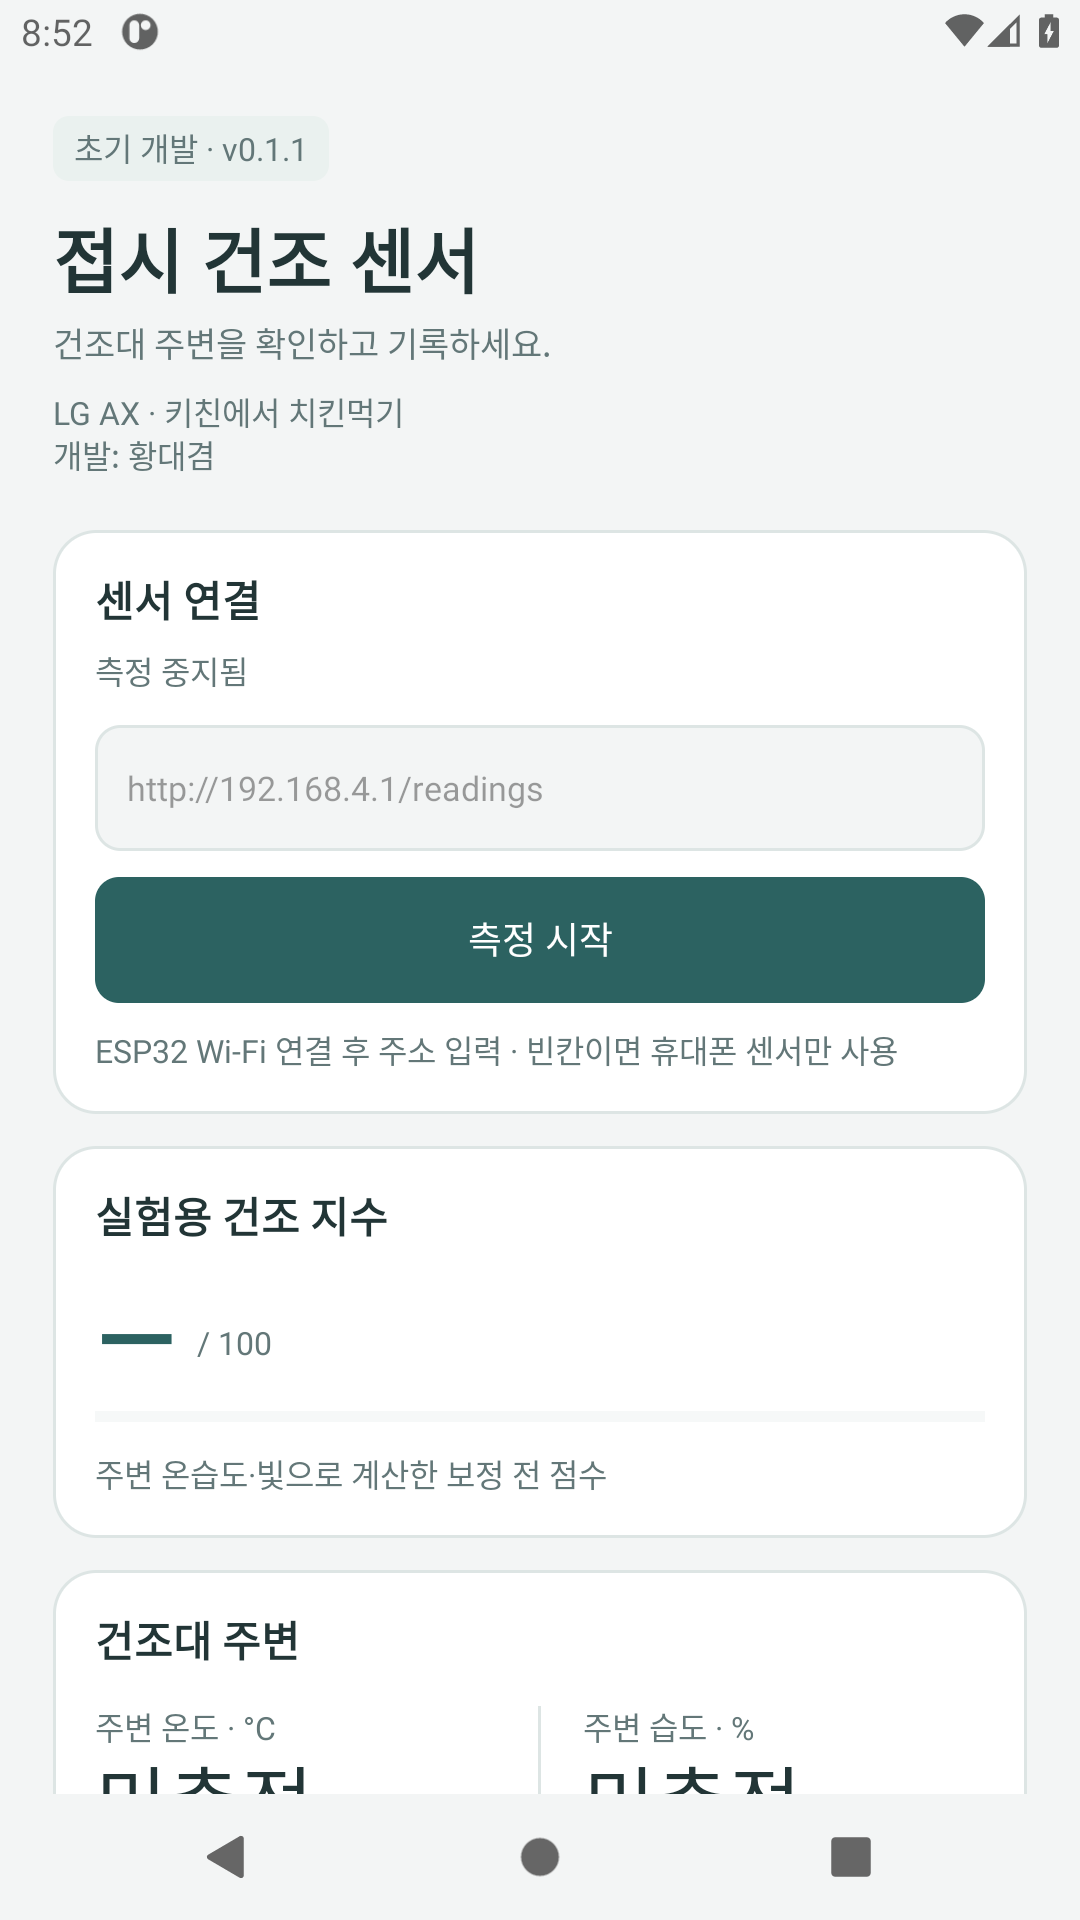
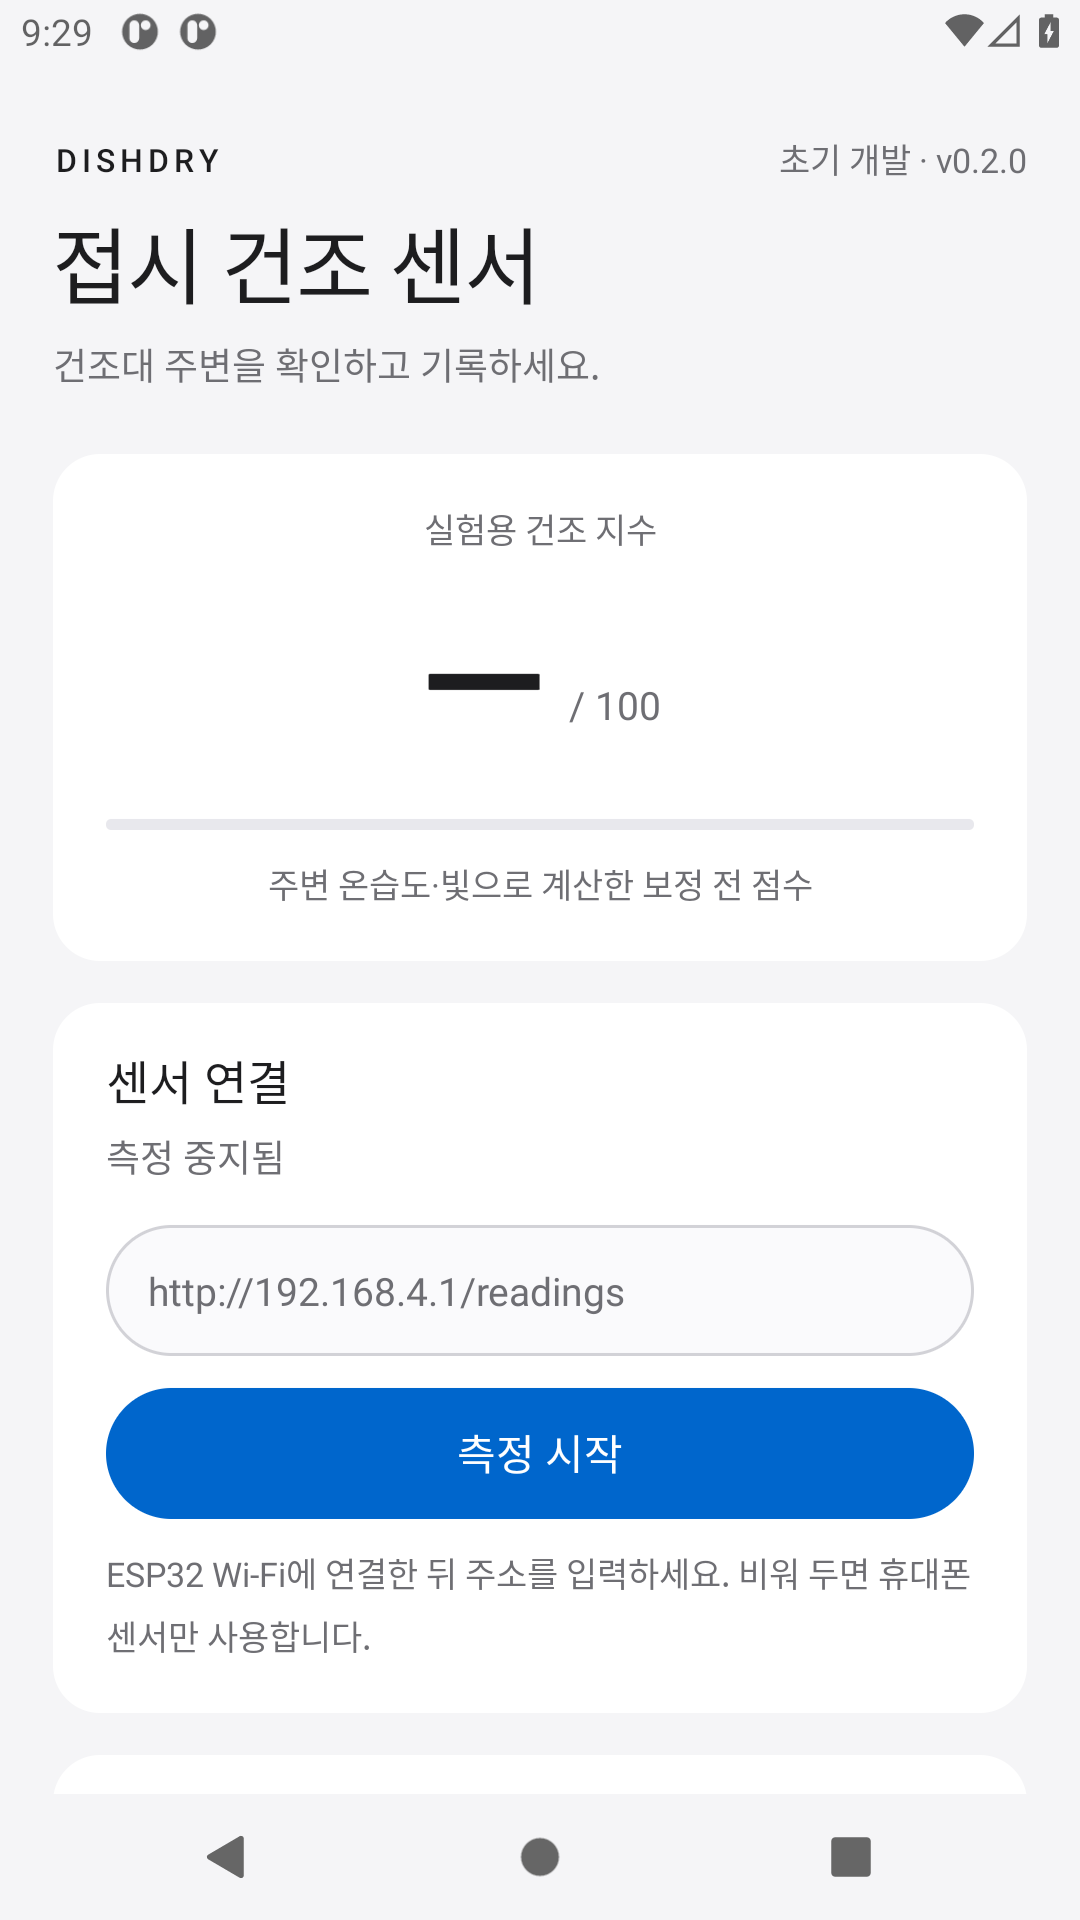
docs: refresh README visuals and execution records for v0.2.0

diff --git a/README.md b/README.md
@@ -6,19 +6,21 @@
 
 주방 UX/UI 시나리오를 소재로 만드는 작은 안드로이드 앱입니다. 접시 건조대 옆에 온습도·빛 센서를 붙이고, 주변 수치만으로 건조 정도를 대략 계산해 보려는 초기 구현입니다.
 
-![접시 건조대의 온습도·빛 센서, ESP32 보드와 Android 앱 구성 스케치](docs/images/dishdry-sensor-sketch.png)
+![접시 건조대의 온습도·빛 센서, ESP32 보드와 새 Android 화면 구성 개념도](docs/images/dishdry-sensor-sketch.png)
 
-*접시 건조대 옆 센서와 앱을 연결하는 구성 스케치.*
+*접시 건조대 옆 센서와 v0.2.0 앱을 연결하는 구성 개념도. 실물 장치 실행 사진이 아닙니다.*
 
 ## 앱 실제 실행 화면
 
-v0.1.1 APK를 Android API 30 에뮬레이터에서 실행한 원본 캡처입니다. 연결·센서·지수·기록을 카드로 배치했습니다. ESP32는 연결하지 않았고, 기록 1개는 에뮬레이터의 가상 휴대폰 센서 값으로 저장한 것입니다.
+v0.2.0 APK를 Android API 30 에뮬레이터에서 실행한 원본 캡처입니다. 흰색 카드, 연회색 바탕, 파란색 캡슐 버튼과 큰 지수를 적용했습니다. ESP32는 연결하지 않았고, 기록 1개는 에뮬레이터의 가상 휴대폰 센서 값으로 저장한 것입니다.
 
 | 연결 대기 | 현재 값 기록 | 시스템 CSV 저장 |
 | --- | --- | --- |
 | <img src="docs/images/screenshots/01-overview.png" width="230" alt="실제 앱 연결 대기 화면"> | <img src="docs/images/screenshots/03-record-saved.png" width="230" alt="실제 앱에서 가상 휴대폰 센서 값 한 건을 기록한 화면"> | <img src="docs/images/screenshots/04-system-export.png" width="230" alt="Android 시스템 파일 선택기의 CSV 저장 화면"> |
 
-앱 실행, 측정 시작, 현재 값 기록, CSV 저장 화면과 앱 복귀, 재시작 후 기록 유지를 확인했습니다. [전체 실행 캡처](docs/images/screenshots), [실행 결과 원문](docs/logs/2026-10-10-android-emulator.txt), [실행 일지](docs/RUN_LOG.md).
+앱 실행, 현재 값 기록, CSV 실제 파일 내용 일치, 저장·취소 후 앱 복귀, 재시작 후 기록 유지, 320dp 너비·130% 글자 크기를 확인했습니다. [전체 실행 캡처 8장](docs/images/screenshots), [실행 결과 원문](docs/logs/2026-10-10-v0.2.0-android-emulator.txt), [실행 일지](docs/RUN_LOG.md).
+
+화면의 색상과 여백은 내려받은 [Apple 웹디자인 분석 DESIGN.md](DESIGN.md)를 참고했습니다. 공식 Apple 디자인 문서는 아니며, Android 기본 글꼴과 위젯에 맞게 적용했습니다. [적용 기준과 출처](docs/DESIGN_NOTES.md).
 
 ## 주제의 흐름
 
@@ -47,24 +49,38 @@ flowchart TD
     end
 
     subgraph phone["Android 앱 · Java / 기본 위젯"]
-        MAIN["MainActivity · 측정 시작/중지"]
+        MAIN["MainActivity · 버튼과 화면 생명주기"]
+        CONTROL["MeasurementController · 5초 폴링·센서 등록"]
+        HTTP["SensorHttpClient · 주소·시간·응답 크기 검사"]
         PARSE["SensorReading · 범위와 측정 시간 검사"]
-        SCREEN["측정값 표시"]
+        STATE["MeasurementState · 오래된 값 제외"]
+        SNAP["ReadingSnapshot · 기록 시점의 값"]
+        SCREEN["DashboardView · 바뀐 표시만 갱신"]
         INDEX["임시 건조 지수 · 0~100"]
         PHONE["휴대폰 조도·가속도 센서"]
-        FILE["현재 값 기록 · 앱 내부 readings.csv"]
+        FILE["RecordStore · 백그라운드 CSV 읽기·쓰기"]
         EXPORT["시스템 파일 선택기로 CSV 내보내기"]
-        MAIN --> PARSE
-        PARSE --> SCREEN
+        MAIN --> CONTROL
+        CONTROL --> HTTP
+        HTTP --> PARSE
+        PARSE --> STATE
+        STATE --> SNAP
+        SNAP --> SCREEN
         PARSE --> INDEX
         INDEX --> SCREEN
-        PHONE -->|"실제 센서 이벤트"| MAIN
-        MAIN -->|"휴대폰 조도·움직임"| SCREEN
-        SCREEN -->|"기록 버튼을 누른 시점의 값"| FILE
+        PHONE -->|"실제 센서 이벤트"| CONTROL
+        CONTROL --> STATE
+        SNAP -->|"버튼을 누른 시점의 유효한 값"| FILE
         FILE --> EXPORT
     end
 
-    API -->|"같은 Wi-Fi · HTTP JSON · 5초마다 읽기"| MAIN
+    API -->|"같은 Wi-Fi · HTTP JSON"| HTTP
+    classDef device fill:#ffffff,stroke:#d2d2d7,color:#1d1d1f
+    classDef app fill:#ffffff,stroke:#0066cc,color:#1d1d1f
+    class DHT,LDR,ESP,API device
+    class MAIN,CONTROL,HTTP,PARSE,STATE,SNAP,SCREEN,INDEX,PHONE,FILE,EXPORT app
+    style rack fill:#f5f5f7,stroke:#d2d2d7,color:#1d1d1f
+    style phone fill:#f5f5f7,stroke:#d2d2d7,color:#1d1d1f
 ```
 
 외부 센서의 온습도와 빛 ADC만 임시 건조 지수에 사용합니다. 휴대폰 센서는 별도로 수치와 기록에 표시합니다. 연결 실패나 오래된 외부 측정값은 미측정으로 처리하며, 모든 기록은 앱 내부에 저장합니다.
@@ -75,7 +91,7 @@ flowchart TD
 
 ![센서 Wi-Fi 연결, 측정값 확인, 현재 값 기록, CSV 저장으로 이어지는 4컷 사용 시나리오](docs/images/user-scenario.png)
 
-*사용 과정을 설명하는 4컷 스케치. 건조 지수는 접시의 실제 건조 완료를 판정하지 않습니다.*
+*새 화면 디자인으로 맞춘 4컷 개념 시나리오. 대시와 대괄호는 자리 표시이며, 실물 센서 실행 기록이 아닙니다.*
 
 ## 화면 와이어프레임과 사용 흐름
 
@@ -96,17 +112,18 @@ flowchart TD
 - 버튼을 누른 시점의 측정값을 앱 내부에 기록하고 CSV로 내보내기
 - 연결 실패, 센서 미지원, 센서 읽기 실패 표시
 
-화면은 기본 Android 위젯으로 만든 한 페이지입니다. 연결·지수·외부 센서·휴대폰 센서·기록을 카드로 배치하고 기록 개수와 최근 기록 시각을 표시합니다. ESP32 수치는 5초마다 읽고, 실제로 수신한 값만 표시합니다. 센서를 연결하지 않으면 해당 항목은 미측정으로 남습니다. 외부 센서 없이 휴대폰 센서만 켤 수도 있습니다.
+화면은 기본 Android 위젯으로 만든 한 페이지입니다. 지수·연결·외부 센서·휴대폰 센서·기록을 카드로 배치하고 기록 개수와 최근 기록 시각을 표시합니다. 화면 표시, 측정 상태, HTTP 요청, CSV 저장을 분리했습니다. CSV 읽기·쓰기·내보내기는 백그라운드에서 실행합니다. ESP32 수치는 5초마다 읽고, 실제로 수신한 값만 표시합니다. 센서를 연결하지 않으면 해당 항목은 미측정으로 남습니다. 외부 센서 없이 휴대폰 센서만 켤 수도 있습니다.
 
 ## 개발 단계
 
-v0.1.1. 앱과 ESP32 펌웨어를 구현한 상태입니다. 실제 건조대에서의 보정, 접시 물기와의 상관관계, 여러 휴대폰에서의 동작은 아직 확인하지 않았습니다. 주변 습도와 밝기가 접시의 건조 완료를 나타낸다는 가정도 검증 전입니다.
+v0.2.0. 앱과 ESP32 펌웨어를 구현한 상태입니다. 실제 건조대에서의 보정, 접시 물기와의 상관관계, 여러 휴대폰에서의 동작은 아직 확인하지 않았습니다. 주변 습도와 밝기가 접시의 건조 완료를 나타낸다는 가정도 검증 전입니다.
 
 건조 지수는 임의 가중치의 환경 점수입니다. 접시 표면 수분이나 건조 완료를 직접 측정하는 값은 아닙니다. 환기, 식기 재질, 물방울 크기 등을 반영하지 못합니다.
 
 ## 간단한 작업 문서
 
 - [간단 명세](docs/SPEC.md) — 화면·버튼, 센서 연결, HTTP 응답, CSV 열 정리
+- [화면 기준과 코드 구조](docs/DESIGN_NOTES.md) — DESIGN.md 출처, Android 적용, 파일별 책임
 - [개발·실행 기록](docs/RUN_LOG.md) — 빌드 출력과 실물 장치 확인 항목
 - [개발 메모와 남은 작업](docs/TODO.md) — 구현한 코드와 기기에서 확인할 항목
 

diff --git a/docs/RUN_LOG.md b/docs/RUN_LOG.md
@@ -39,9 +39,37 @@ LG AX · 키친에서 치킨먹기 / 황대겸
 | 측정 중지 상태에서 기록 버튼 | 비활성화 확인 |
 | Android Runtime 치명적 예외 | 없음 |
 
-[원본 실행 화면](images/screenshots), [원문 결과와 내부 CSV](logs/2026-10-10-android-emulator.txt).
+[v0.1.1 원본 실행 화면](https://github.com/unknownamed/lgax-kitchen-sensor-android/tree/c8658311ec562a878ed4f9056f6cadeb715f4f9c/docs/images/screenshots), [원문 결과와 내부 CSV](logs/2026-10-10-android-emulator.txt).
 
 이 실행의 휴대폰 센서는 에뮬레이터의 가상 센서다. 외부 온습도·빛 센서는 연결하지 않아 CSV의 해당 열은 비어 있다. CSV의 `recorded_at_utc`는 UTC이고, 앱의 최근 기록 표시는 실행 기기의 시간대를 따른다.
+
+## 2026-10-10 · v0.2.0 디자인과 코드 정리
+
+- Apple 웹디자인 분석 DESIGN.md를 받고 MIT 라이선스와 출처를 보관했다.
+- 흰색·연회색 표면, 큰 지수, 파란 캡슐 버튼과 한 화면의 세로 카드 구성으로 변경했다.
+- 화면 표시, 센서 등록·폴링, HTTP 요청, 값 유효 기간, CSV 파일 작업을 분리했다.
+- CSV 요약 읽기·쓰기·복사를 별도 스레드에서 처리한다. 파일 길이가 바뀌지 않았다면 요약을 다시 읽지 않는다.
+- `sample_age_ms`와 앱 수신 뒤 경과 시간을 함께 적용해 오래된 외부 값이 기록되지 않도록 수정했다.
+- 구성 그림, 시나리오와 와이어프레임도 v0.2.0 화면에 맞춰 교체했다.
+- 시스템 파일 선택기의 로딩 화면이 캡처되던 타이밍을 수정했다. 실제 저장 버튼이 나타난 것을 확인한 뒤 원본 화면을 캡처한다.
+
+대상 코드: `fafc08b`, v0.2.0. [빌드 결과](https://github.com/unknownamed/lgax-kitchen-sensor-android/actions/runs/37993503219), [에뮬레이터 실행 결과](https://github.com/unknownamed/lgax-kitchen-sensor-android/actions/runs/37993503217).
+
+| 확인한 항목 | 결과 |
+| --- | --- |
+| Gradle 단위 테스트 | 15개 성공, 실패·오류·생략 0개 |
+| Android APK 빌드와 lint | 성공 |
+| ESP32 펌웨어 컴파일 | 성공, 943328 bytes / 전역 변수 46132 bytes |
+| 측정 시작과 가상 센서 값 기록 | 성공, CSV 한 행 추가 |
+| 시스템 파일 선택기에서 CSV 저장 | 성공, 내보낸 실제 파일과 내부 원본 내용 일치 |
+| 시스템 파일 선택기 취소 | 내부 기록 유지 |
+| 앱 재시작 | 기록 개수·최근 기록 시각 유지, 측정 중지 상태 |
+| 320dp 너비와 130% 글자 크기 | 기록·내보내기 버튼 표시와 접근 확인 |
+| Android Runtime 치명적 예외 | 없음 |
+
+단위 테스트는 외부 값 만료, 측정 중지·재시작 시 값 초기화, 비정상 휴대폰 값 제외, 주소 검사, CSV 빈 필드·소수점·원본 유지·손상 행 처리·요약 갱신을 확인한다. 첫 테스트 실행에서 지수 반올림 예시의 기대값을 잘못 적은 항목 하나가 실패했으며, 계산 결과 57로 고친 뒤 모두 통과했다.
+
+[원문 빌드·테스트 출력](logs/2026-10-10-v0.2.0-checks.txt), [원문 실행 결과와 내부 CSV](logs/2026-10-10-v0.2.0-android-emulator.txt), [실행 캡처 8장](images/screenshots). 화면은 APK 원본이며 구성 그림·시나리오와 구분한다. 센서 기록은 에뮬레이터의 가상 움직임 값이다. 실물 ESP32는 연결하지 않았다.
 
 ## 실물 ESP32 실행 기록 · 확인 대기
 

diff --git a/docs/TODO.md b/docs/TODO.md
@@ -16,6 +16,11 @@ LG AX · 키친에서 치킨먹기 / 황대겸
 - [x] 앱 APK 빌드·Android lint·ESP32 컴파일 확인
 - [x] 실제 앱 에뮬레이터 실행 화면 캡처
 - [x] 에뮬레이터 가상 센서 기록·CSV 저장 화면·재시작 후 기록 유지 확인
+- [x] Apple 분석 DESIGN.md 기반 색상·여백·버튼 변경
+- [x] 화면 표시·측정 상태·HTTP 요청·CSV 저장 책임 분리
+- [x] CSV 파일 작업을 백그라운드로 이동
+- [x] 측정값 만료·주소 검사·CSV 기록의 단위 테스트
+- [x] 구성 그림·시나리오·와이어프레임을 새 화면으로 교체
 
 초기 앱과 펌웨어의 빌드 결과: [GitHub Actions](https://github.com/unknownamed/lgax-kitchen-sensor-android/actions/runs/37986890214). 위 체크는 코드 구현과 빌드 기준이다. 실제 센서 연결과 실사용 검증은 아래에 남겨 둔다.
 
@@ -23,12 +28,14 @@ LG AX · 키친에서 치킨먹기 / 황대겸
 
 - [ ] 연결 실패 뒤 다음 요청을 기다리는 상태를 더 쉽게 표시
 - [x] 기록 개수와 최근 기록 시각 표시
-- [ ] 저장 위치 선택을 취소했을 때 안내 확인
+- [x] 에뮬레이터에서 저장 위치 선택 취소 후 내부 기록 유지 확인
 - [ ] 응답 오류 종류별로 짧은 안내 정리
-- [ ] 주소 입력 안내와 작은 화면 배치 다듬기
+- [x] 주소 입력 안내와 320dp 너비·130% 글자 크기에서 기록 버튼 확인
 - [ ] 배선 안내를 더 보기 쉽게 정리
 
 v0.1.1에서 연결·지수·센서·기록 카드와 버튼 스타일을 추가했다. 데이터가 없으면 기록 버튼을, 저장된 기록이 없으면 내보내기 버튼을 비활성화한다.
+
+v0.2.0에서 연회색 바탕, 흰색 카드, 파란 캡슐 버튼과 큰 지수 표시를 적용했다. 기존 CSV 열과 버튼 동작을 유지하며, 응답의 측정 경과 시간도 외부 값 만료에 반영한다. 파일 내용이 바뀌지 않았으면 기록 요약을 다시 읽지 않고 한 행만 추가한다.
 
 ## 기기에서 확인할 것
 
